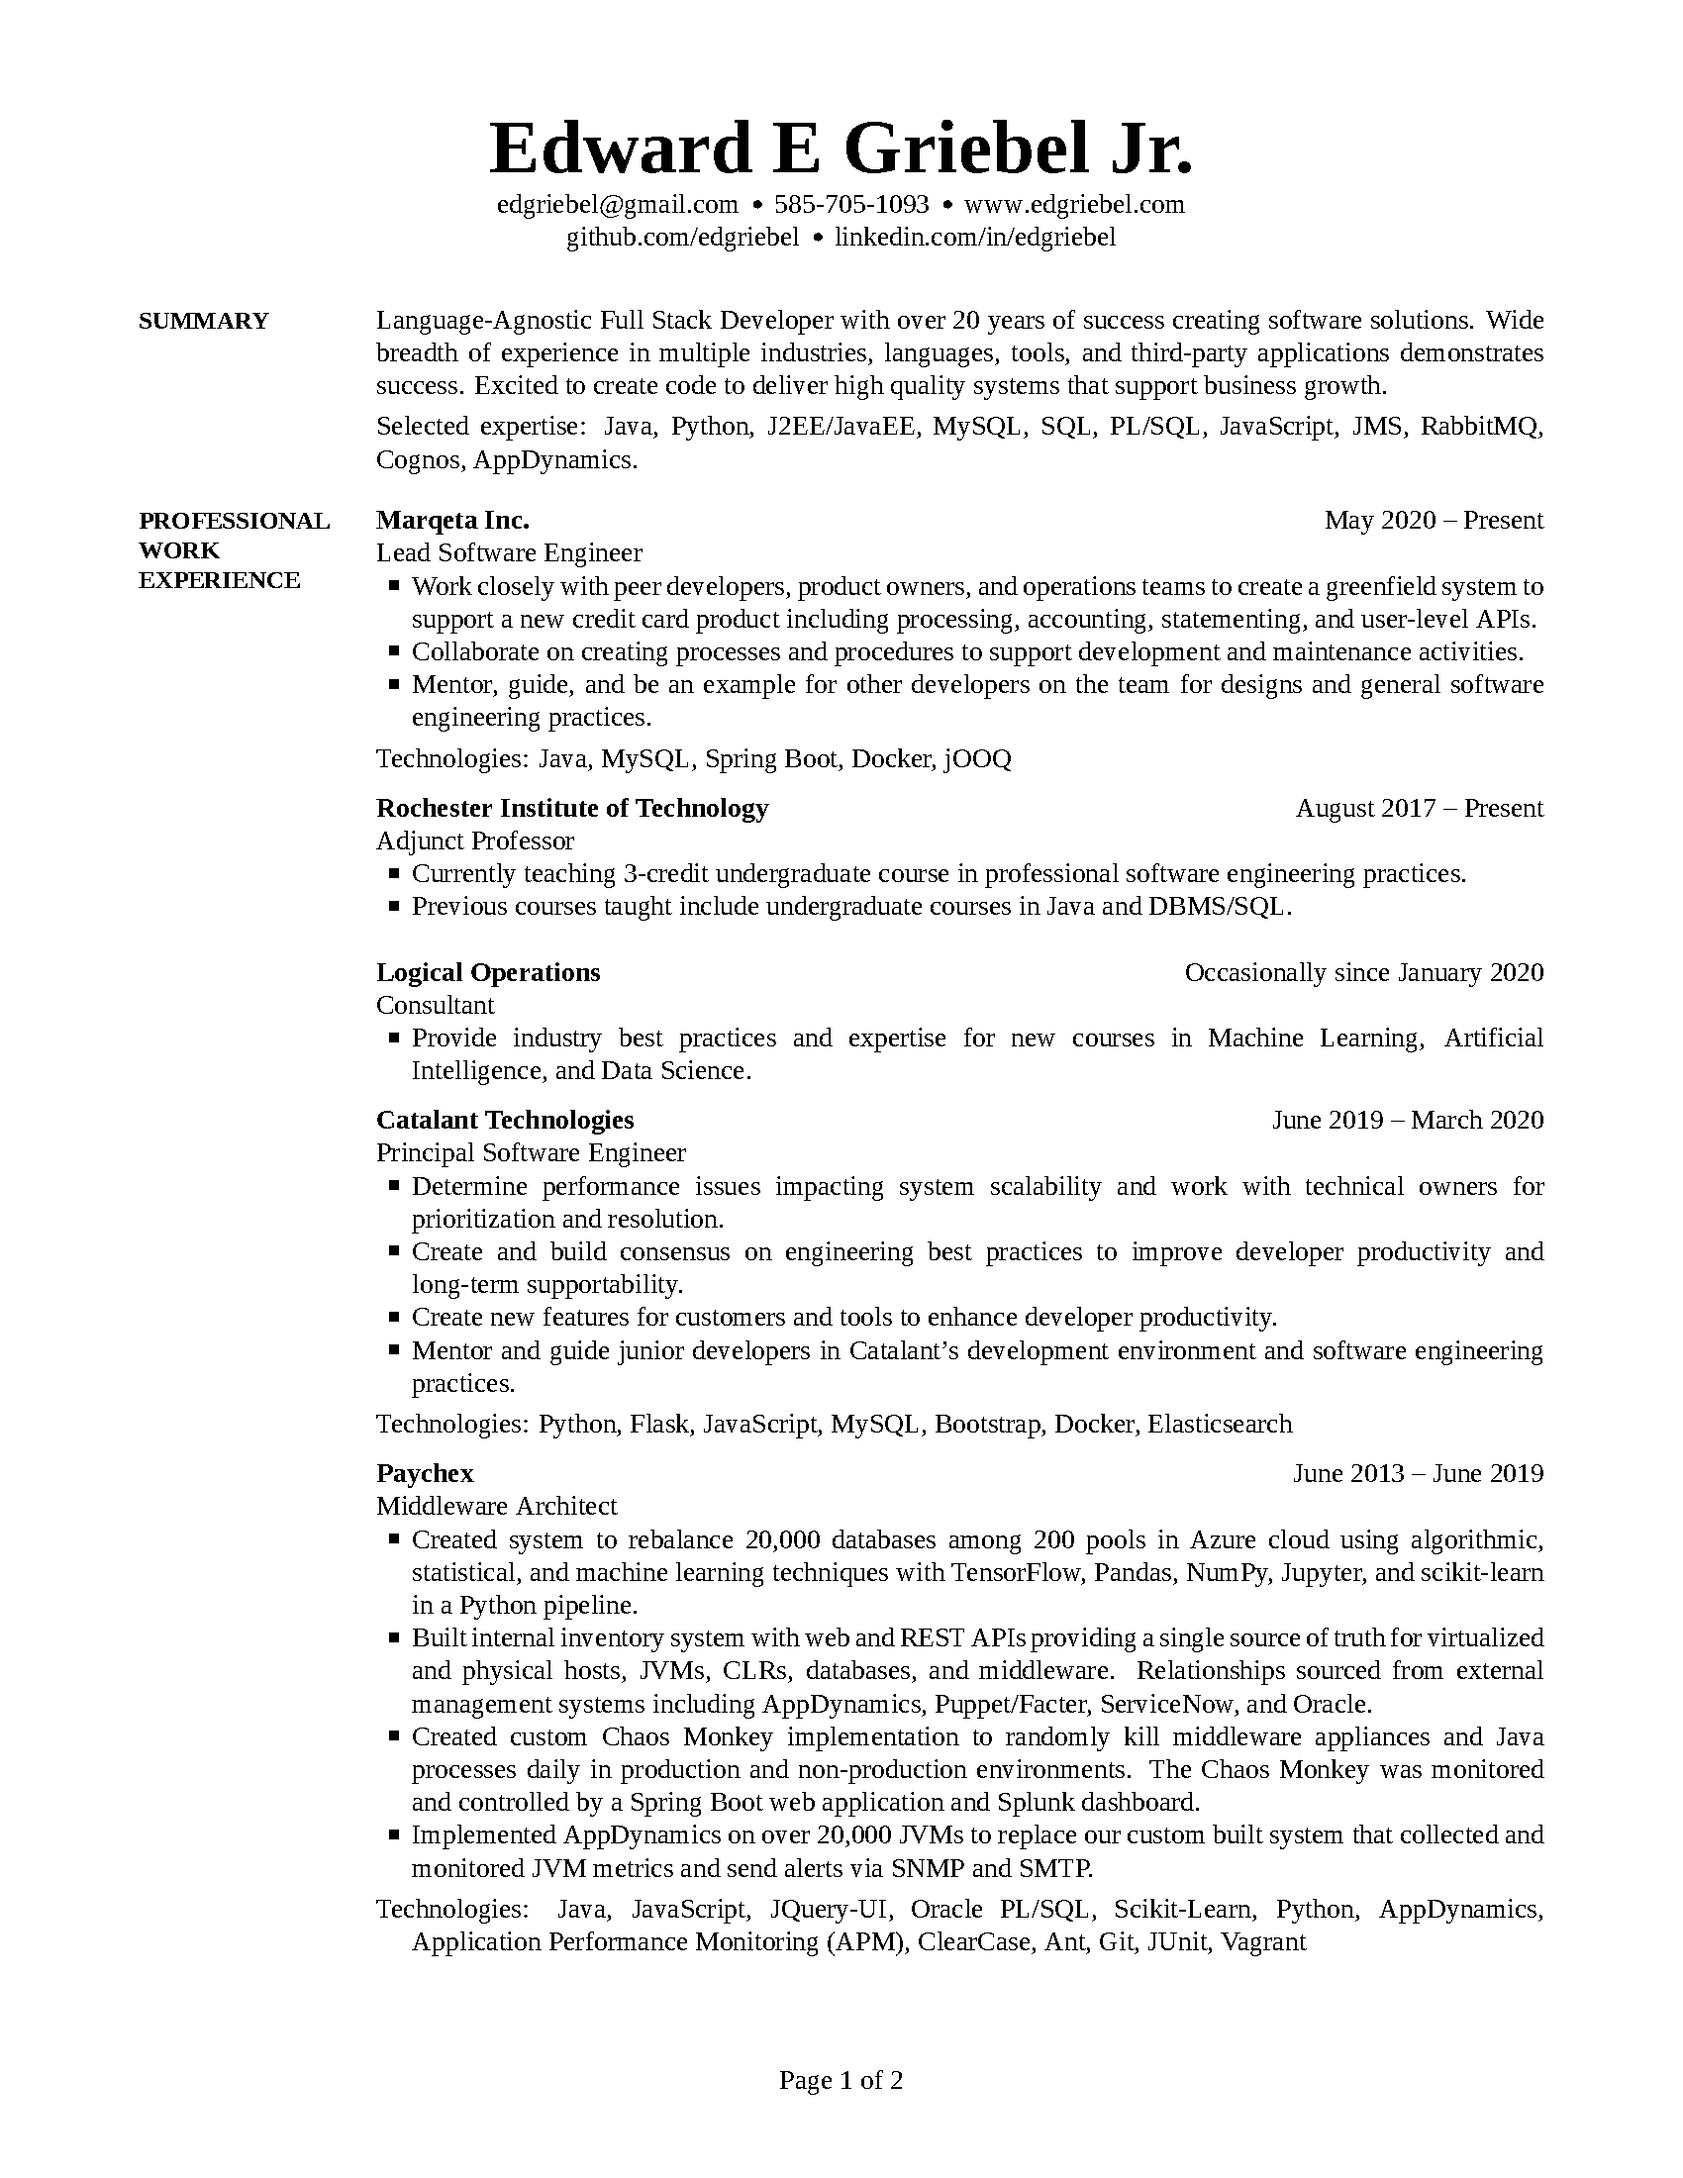
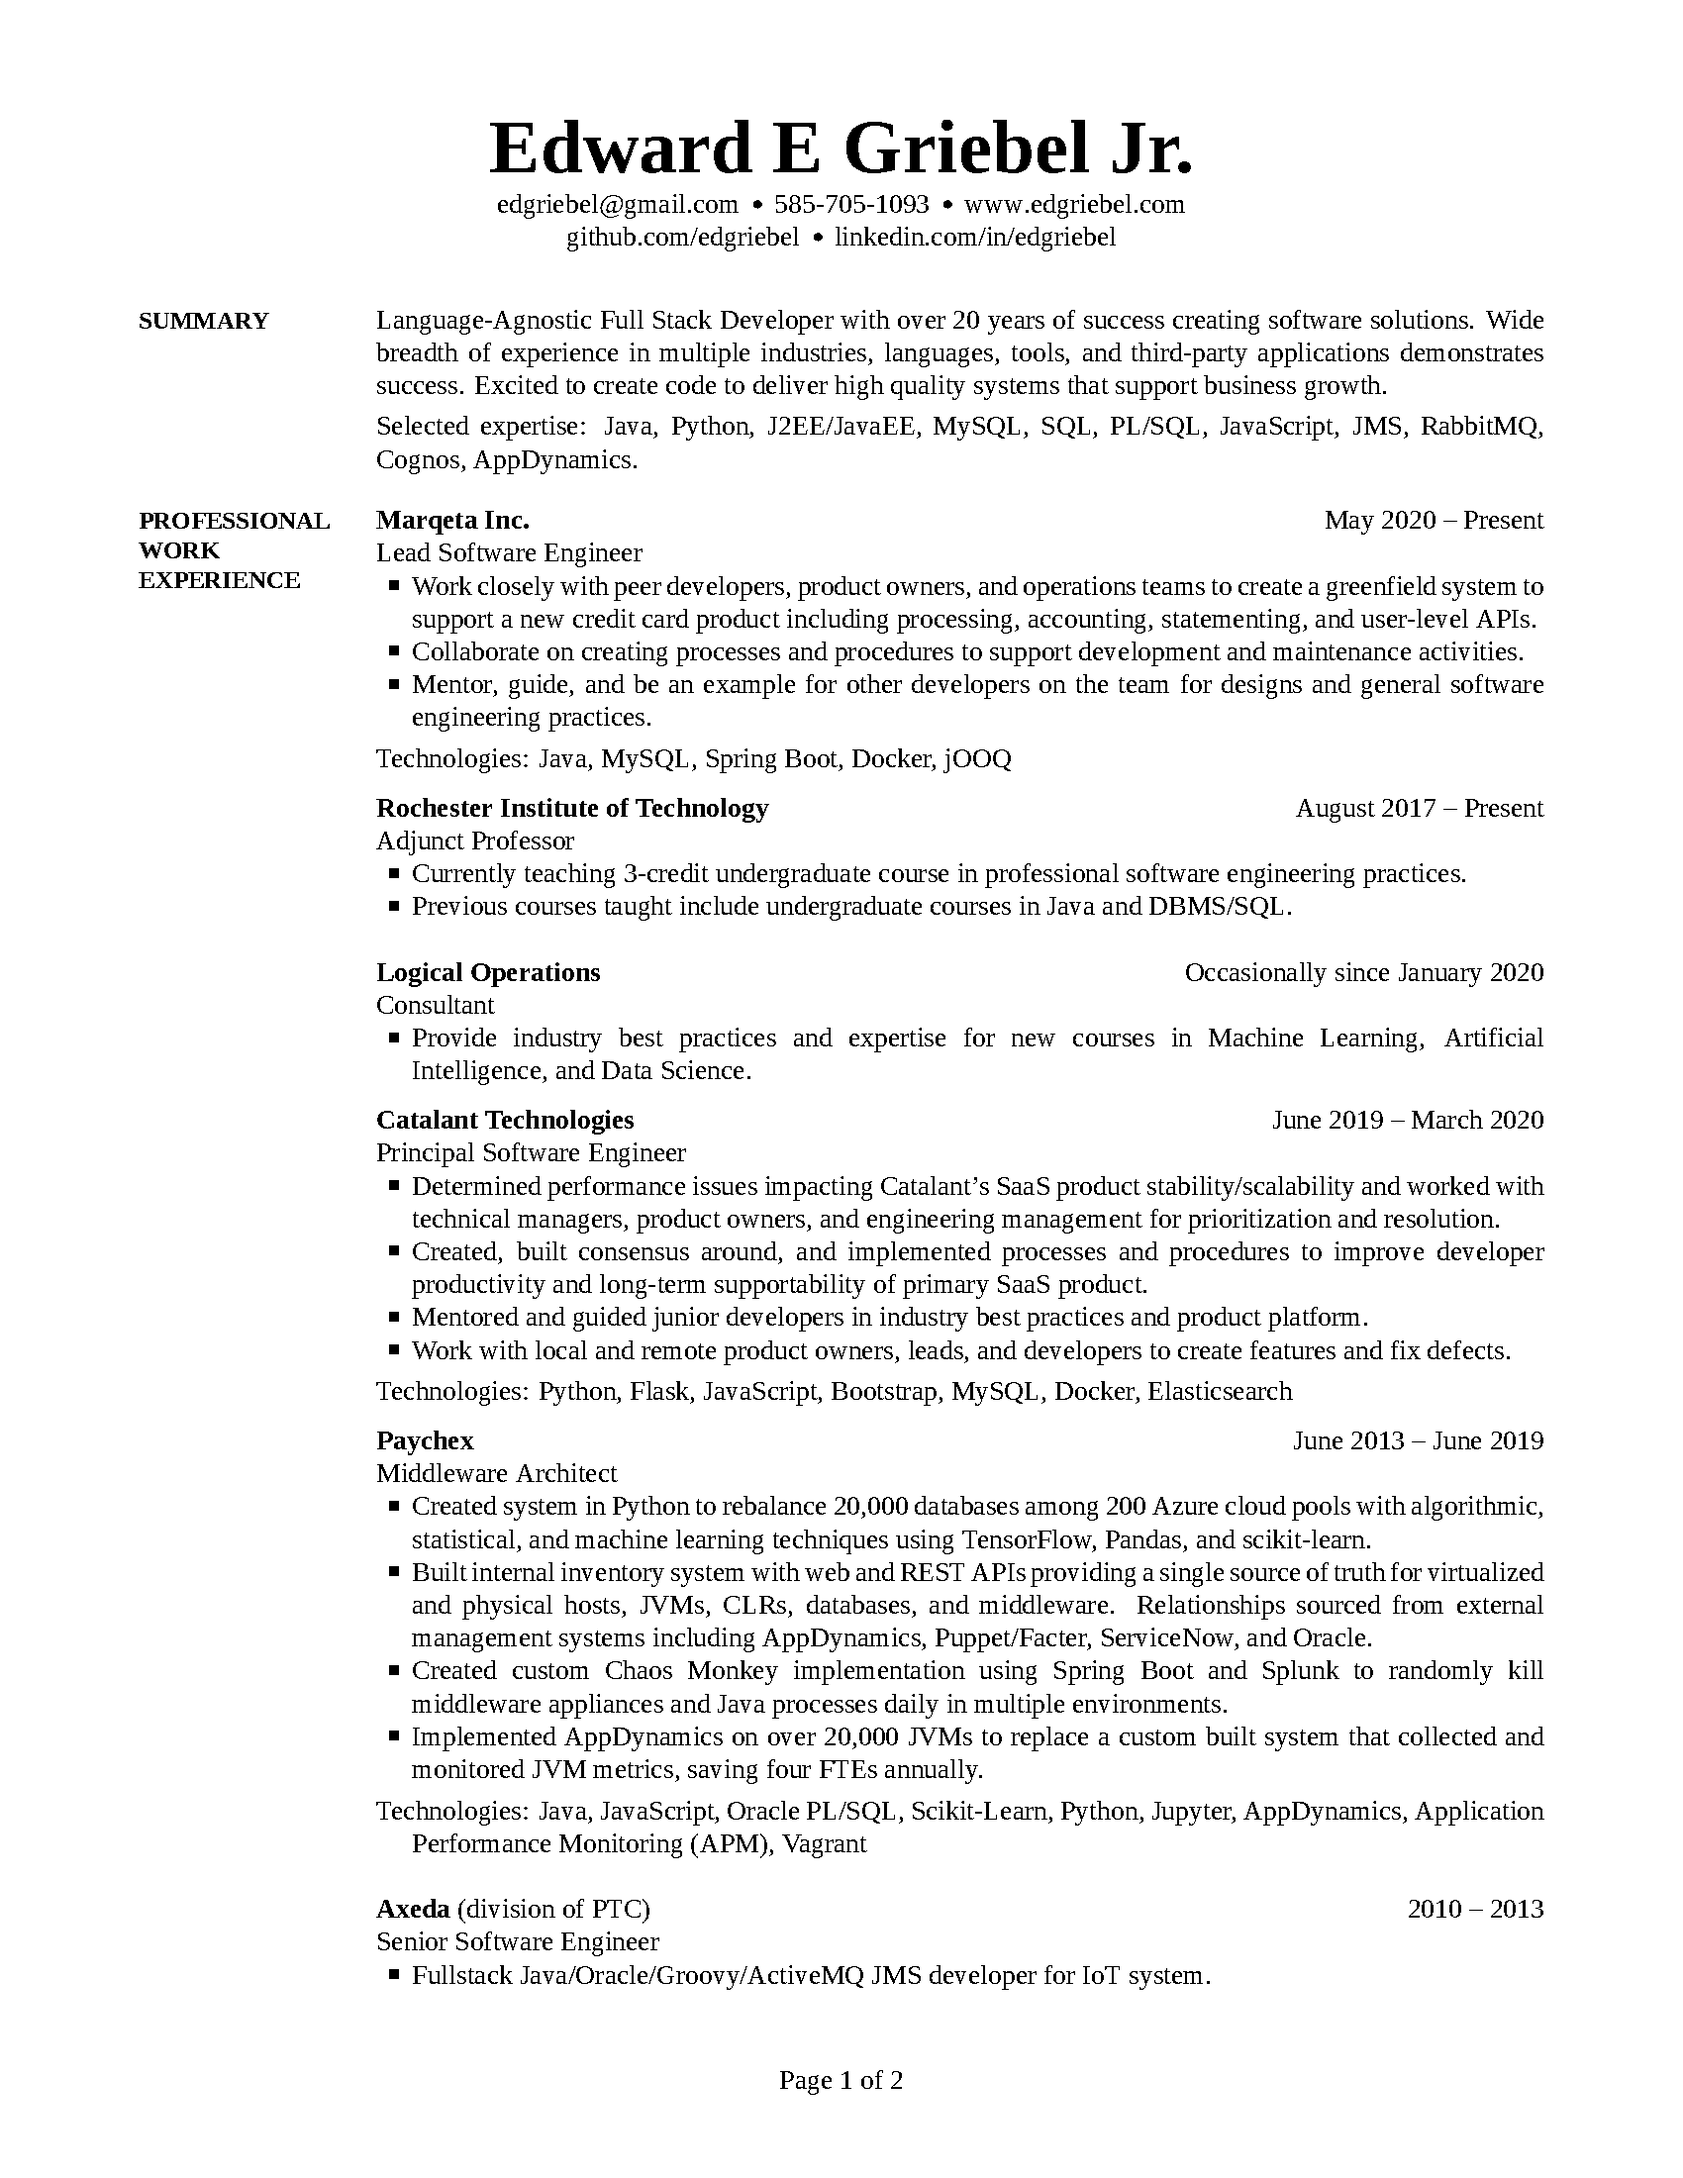
Final 2021-05 tweaks, trim down info pre-MQ

Changed region(s): [[0.2182, 0.5255, 0.9041, 0.8964], [0.8418, 0.8036, 0.9041, 0.8345], [0.8729, 0.8655, 0.9041, 0.8964]]

diff --git a/Ed_Griebel_CV.tex b/Ed_Griebel_CV.tex
@@ -208,17 +208,17 @@ Rochester, New York
 
 \begin{Detail}
 \BulletItem
-Determine performance issues impacting system scalability and work with technical owners for prioritization and resolution.
+Determined performance issues impacting Catalant's SaaS product stability/scalability and worked with technical managers, product owners, and engineering management for prioritization and resolution.
 \BulletItem
-Create and build consensus on engineering best practices to improve developer productivity and long-term supportability.
+Created, built consensus around, and implemented processes and procedures to improve developer productivity and long-term supportability of primary SaaS product. 
 \BulletItem
-Create new features for customers and tools to enhance developer productivity.
+Mentored and guided junior developers in industry best practices and product platform.
 \BulletItem
-Mentor and guide junior developers in Catalant's development environment and software engineering practices.
+Work with local and remote product owners, leads, and developers to create features and fix defects.
 
 
 \Gap
-Technologies: Python, Flask, JavaScript, MySQL, Bootstrap, Docker, Elasticsearch
+Technologies: Python, Flask, JavaScript, Bootstrap, MySQL, Docker, Elasticsearch
 
 \end{Detail}
 
@@ -238,23 +238,23 @@ Rochester, New York
 
 \begin{Detail}
 \iffalse
-At Paychex I work with cross-functional teams to build: an inventory system to track hosts, managed VMs, databases, and middleware appliances; machine learning systems to efficiently repack databases and to predict system utilization based on user metrics; a ground-up implementation of the Netflix Chaos Monkey; implemented AppDynamics on over 20,000 JVMs; and a system to collect and monitor JVM metrics and send alerts via SNMP and SMTP.
+At Paychex I worked with cross-functional teams to build: an inventory system to track hosts, managed VMs, databases, and middleware appliances; machine learning systems to efficiently repack databases and to predict system utilization based on user metrics; a ground-up implementation of the Netflix Chaos Monkey; implemented AppDynamics on over 20,000 JVMs; and a system to collect and monitor JVM metrics and send alerts via SNMP and SMTP.
 \fi
 
 \BulletItem
-Created system to rebalance 20,000 databases among 200 pools in Azure cloud using algorithmic, statistical, and machine learning techniques with TensorFlow, Pandas, NumPy, Jupyter, and scikit-learn in a Python pipeline.
+Created system in Python to rebalance 20,000 databases among 200 Azure cloud pools with algorithmic, statistical, and machine learning techniques using TensorFlow, Pandas, and scikit-learn.
 
 \BulletItem
 Built internal inventory system with web and REST APIs providing a single source of truth for virtualized and physical hosts, JVMs, CLRs, databases, and middleware. Relationships sourced from external management systems including AppDynamics, Puppet/Facter, ServiceNow, and Oracle.
 
 \BulletItem
-Created custom Chaos Monkey implementation to randomly kill middleware appliances and Java processes daily in production and non-production environments. The Chaos Monkey was monitored and controlled by a Spring Boot web application and Splunk dashboard.
+Created custom Chaos Monkey implementation using Spring Boot and Splunk to randomly kill middleware appliances and Java processes daily in multiple environments.
 
 \BulletItem
-Implemented AppDynamics on over 20,000 JVMs to replace our custom built system that collected and monitored JVM metrics and send alerts via SNMP and SMTP.
+Implemented AppDynamics on over 20,000 JVMs to replace a custom built system that collected and monitored JVM metrics, saving four FTEs annually.
 
 \Gap
-Technologies: Java, JavaScript, JQuery-UI, Oracle PL/SQL, Scikit-Learn, Python, AppDynamics, Application Performance Monitoring (APM), ClearCase, Ant, Git, JUnit, Vagrant
+Technologies: Java, JavaScript, Oracle PL/SQL, Scikit-Learn, Python, Jupyter, AppDynamics, Application Performance Monitoring (APM), Vagrant
 \end{Detail}
 
 \BigGap
@@ -310,9 +310,11 @@ Rochester, New York
 
 \begin{Detail}
 \BulletItem
-Fullstack Java/Oracle/ActiveMQ JMS developer for IoT system. Lead the integration and upgrade of Cognos Business Intelligence with IoT system using Groovy and Java.
+Fullstack Java/Oracle/Groovy/ActiveMQ JMS developer for IoT system. 
 \BulletItem
-Internal technical consulting with professional services and product management teams.
+Owned the integration, performance tuning, and upgrade of Cognos Business Intelligence module.
+\BulletItem
+Internal technical consultant for professional services and product management teams.
 
 \Gap
 Technologies: Java, JavaScript, Oracle PL/SQL, Hudson/Jenkins, Cognos, Business Intelligence
@@ -340,10 +342,10 @@ Rochester, New York
 
 \begin{Detail}
 \BulletItem
-Lead team of five to create Java/JavaScript front end and webapp for an existing internal fat client, and upgrade two existing web applications to contemporary standards. Used Hudson to create a CI/CD pipeline to QA environment.
+Lead team of five to create Java/JavaScript front end and webapp for an existing internal fat client, and upgraded two existing web applications to contemporary standards. Used Hudson to create a CI/CD pipeline for Dev and QA deployments.
 
 \BulletItem
-Mentored new developers, delivered technical training, and internal technical consulting.
+Mentored new developers and delivered technical training.
 %% 2021-05-02 TMI
 \iffalse
 \BulletItem
@@ -487,7 +489,9 @@ Technologies: Sybase, ksh
 
 \begin{Detail}
 \BulletItem
-Lead for team of five to create Java/JavaScript front end and webapp for an existing internal fat client, and upgrade two existing web applications to contemporary standards. Used Hudson to create a CI/CD pipeline to QA environment.  Mentored new developers, delivered technical training and technical consulting.
+	Lead team of five to create three public-facing fullstack Java/JavaScript applications.
+	Created CI/CD deployment pipeline with Hudson.
+	Mentored new developers and delivered technical training.
 \end{Detail}
 
 \BigGap
